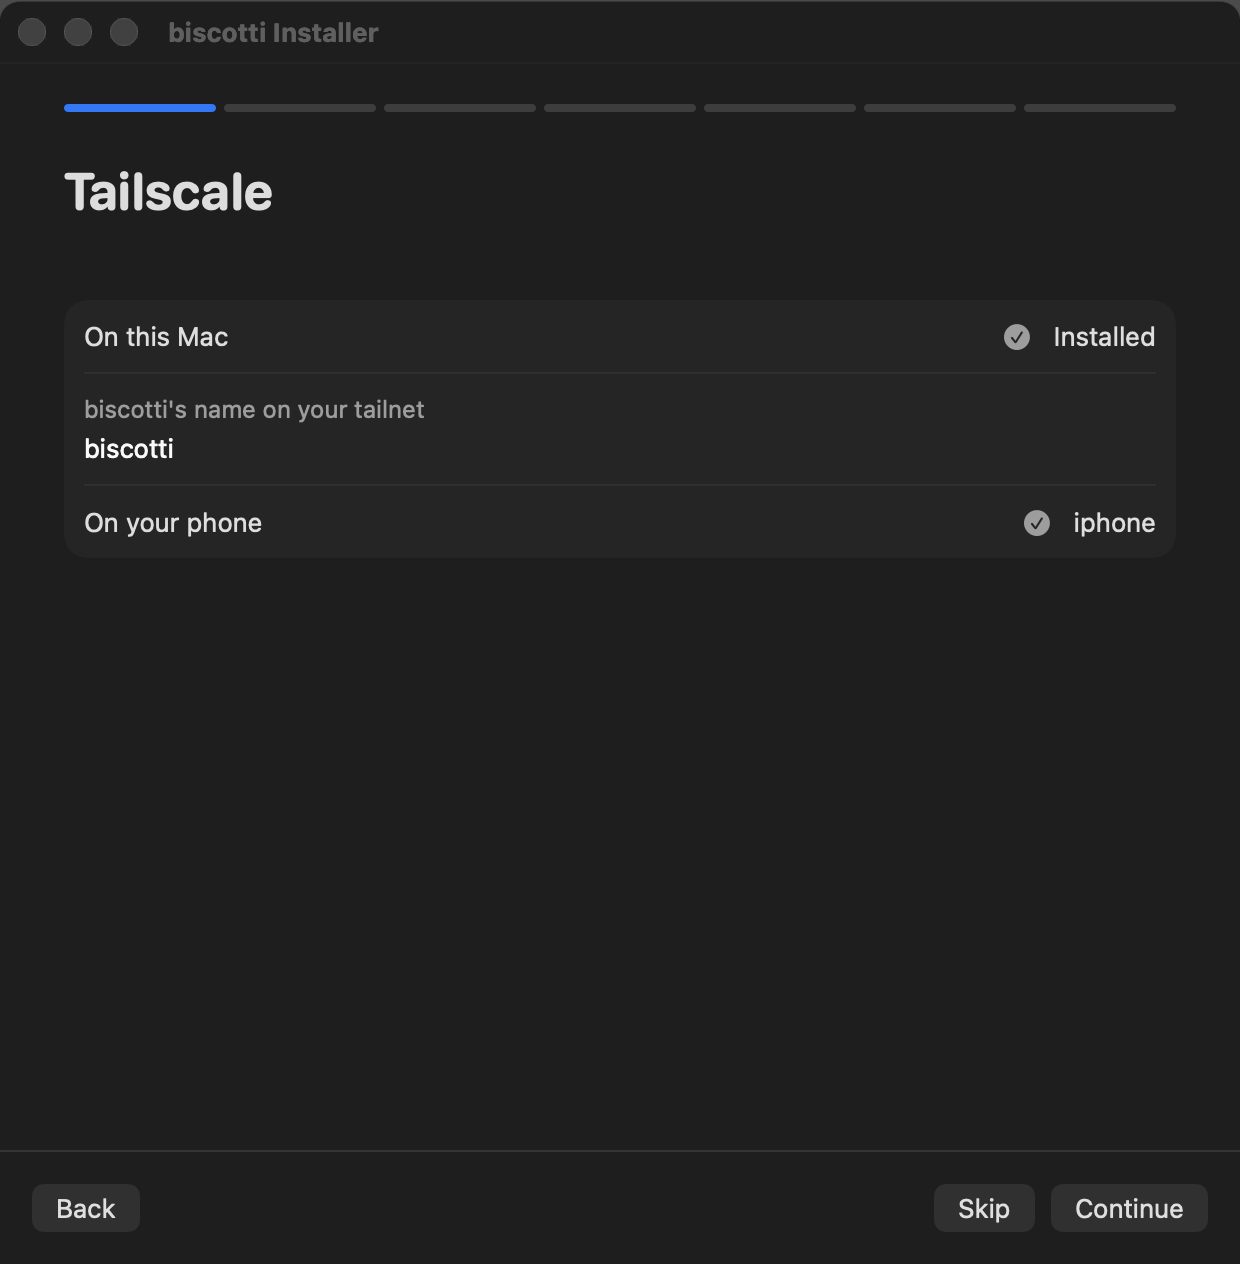
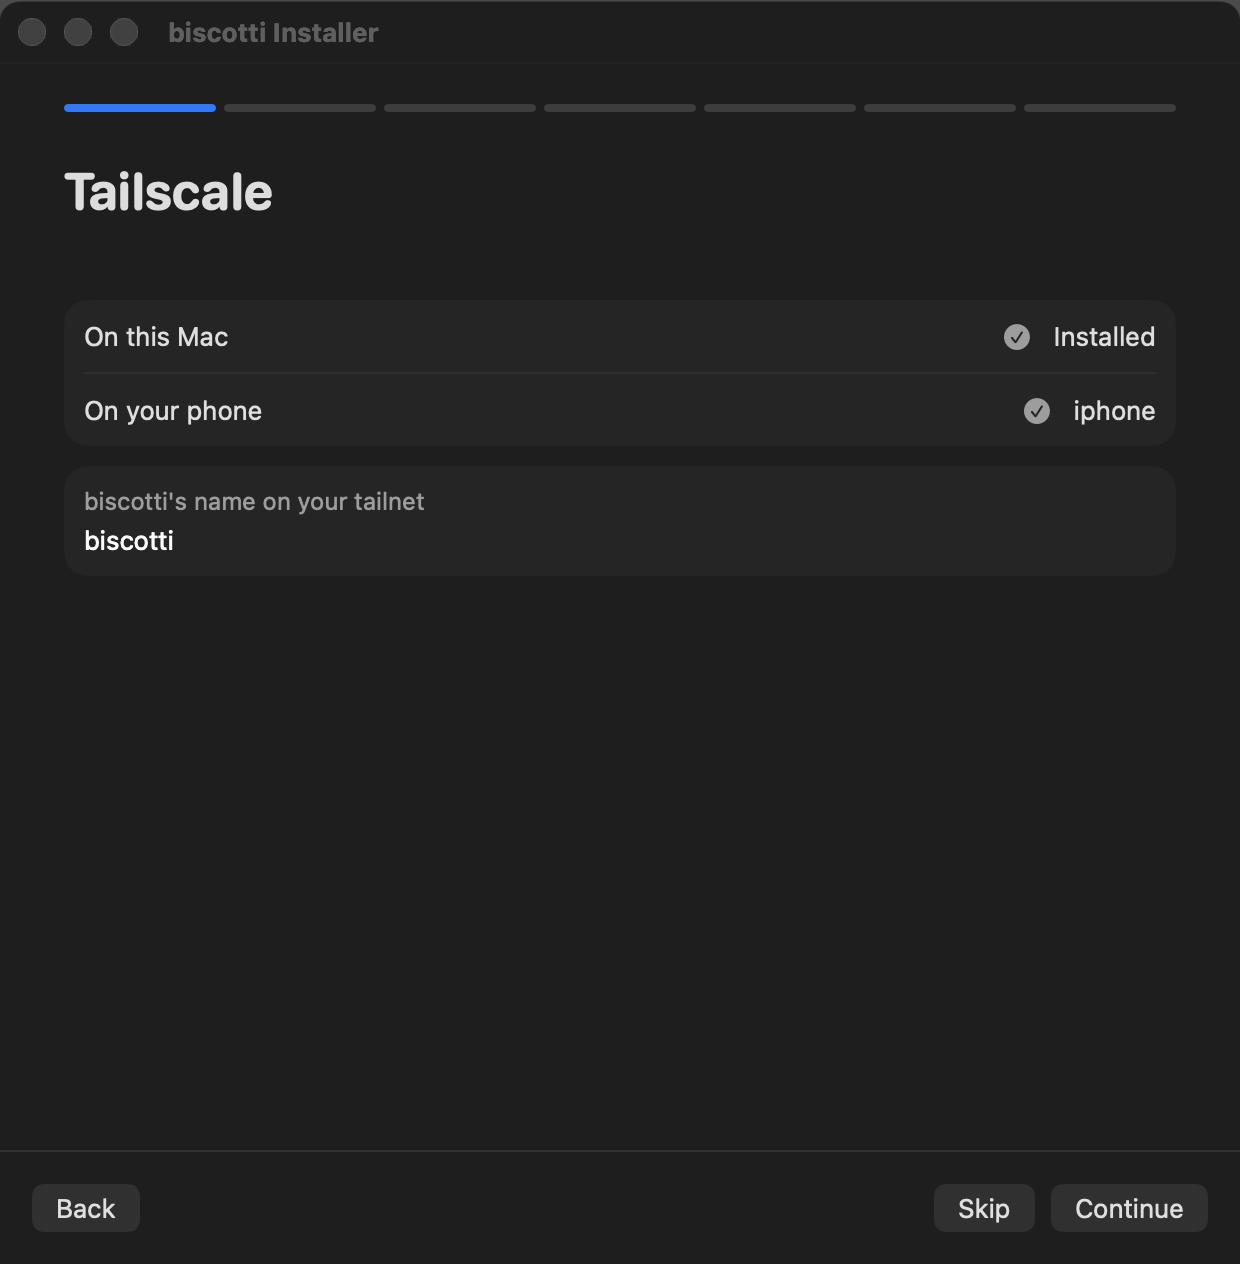
installer: tailscale checks together, name below

Changed region(s): [[0.0613, 0.3085, 0.3371, 0.432], [0.8274, 0.4011, 0.9194, 0.432], [0.8274, 0.3085, 0.9194, 0.3394]]

diff --git a/installers/setup/Sources/BiscottiInstaller/App.swift b/installers/setup/Sources/BiscottiInstaller/App.swift
@@ -226,24 +226,26 @@ struct InstallerView: View {
     /// You reach biscotti's pages and forms over Tailscale, from this Mac and your phone.
     @ViewBuilder private var tailscale: some View {
         Form {
-            LabeledContent("On this Mac") {
-                if tailscaleOnMac {
-                    Label("Installed", systemImage: "checkmark.circle.fill")
-                } else {
-                    Link("Install Tailscale", destination: Tailscale.downloadMac)
+            Section {
+                LabeledContent("On this Mac") {
+                    if tailscaleOnMac {
+                        Label("Installed", systemImage: "checkmark.circle.fill")
+                    } else {
+                        Link("Install Tailscale", destination: Tailscale.downloadMac)
+                    }
                 }
-            }
-            field("biscotti's name on your tailnet", $settings.tailscaleName)
-            LabeledContent("On your phone") {
-                if let phone {
-                    Label(phone, systemImage: "checkmark.circle.fill")
-                } else {
-                    HStack {
-                        Toggle("Tailscale is installed on my phone", isOn: $phoneConfirmed).toggleStyle(.checkbox)
-                        Link("Get it", destination: Tailscale.downloadPhone)
+                LabeledContent("On your phone") {
+                    if let phone {
+                        Label(phone, systemImage: "checkmark.circle.fill")
+                    } else {
+                        HStack {
+                            Toggle("Tailscale is installed on my phone", isOn: $phoneConfirmed).toggleStyle(.checkbox)
+                            Link("Get it", destination: Tailscale.downloadPhone)
+                        }
                     }
                 }
             }
+            Section { field("biscotti's name on your tailnet", $settings.tailscaleName) }
         }
         .settingsForm()
         .onAppear { checkTailscale() }
